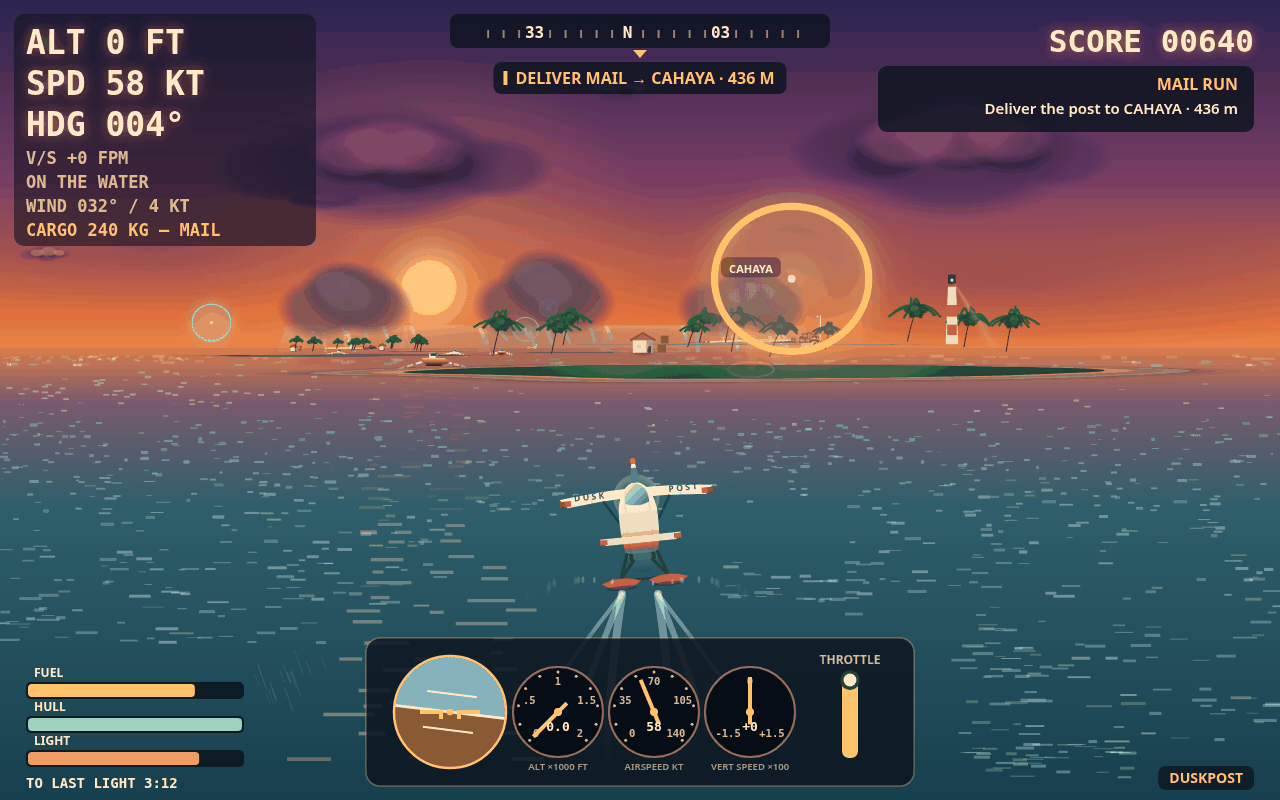
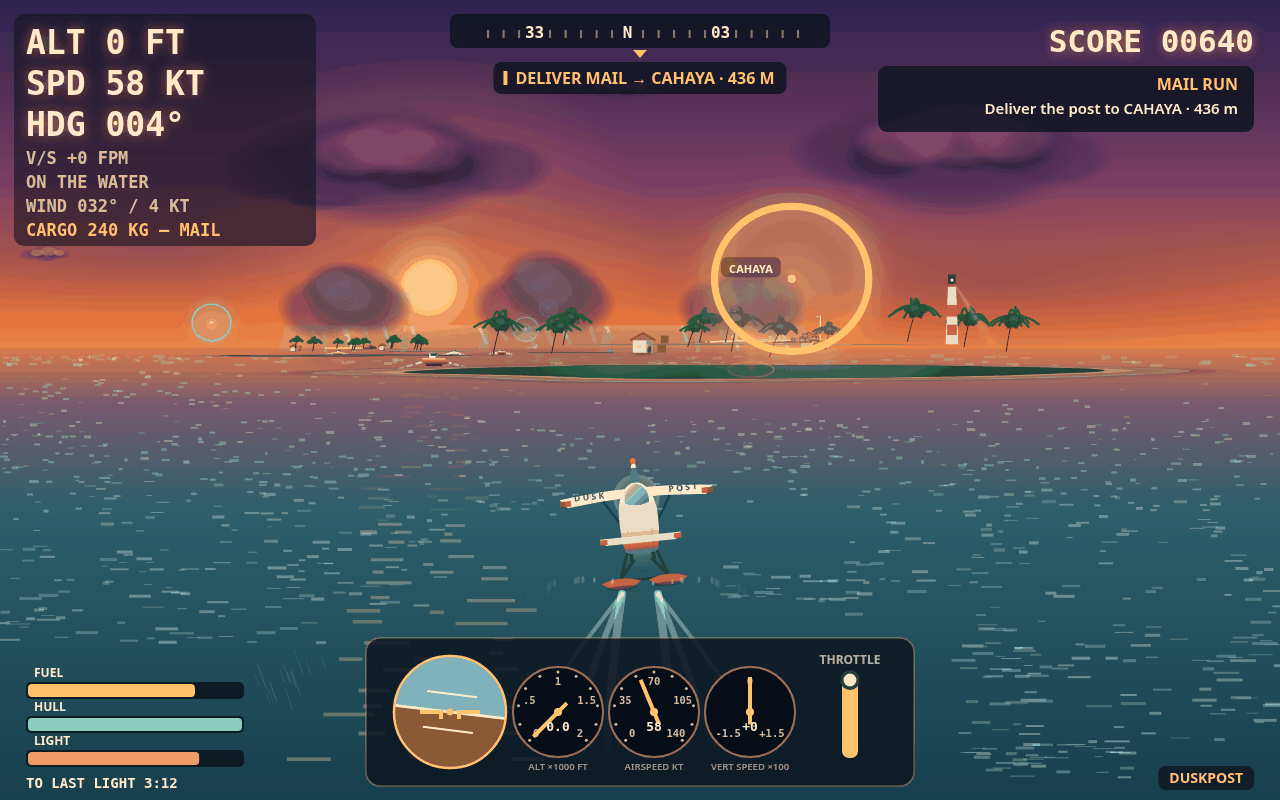
V36: last flat sea pocket filled in cover+rescue (PD); approach corner + delivery y700 grass meet guards (AB2/E2-left2 revision); strip-side patch fixed on reading (E2-strip)

diff --git a/game/src/render.js b/game/src/render.js
@@ -1185,6 +1185,38 @@ function drawSea(ctx, v, plane, light) {
     ctx.globalAlpha = clamp(0.6 - p.fwd / 2600, 0.12, 0.30) * (0.7 + hash(11) * 0.6);
     ctx.fillRect(p.x - len / 2, p.y, len, ht);
   }
+  // V36: a PD pass — a flat pocket in the cover's y640 x1200 half
+  // (1200–1280, 640–680): sd 5.5 with ONE dash in the 3× crop (V36
+  // audit problem 4). It sits in the gap between the PB pass (ends
+  // px 1040) and the frame edge, below the deep-2 pass's start (py
+  // 658). Same shape as PB, px 1200–1280, py horizon+292…+332, gate
+  // fwd 20–40, count 12, salt 89.11. Hash-proven before rendering
+  // (sea-probe36.mjs): 12/12 kept at cover AND rescue, 12/12 in the
+  // pocket, 0/12 at approach, delivery and storm, 0 on any
+  // panel/pill. Map diff guard as in the PA pass above.
+  ctx.fillStyle = 'rgba(220,245,245,1)';
+  for (let i = 0; i < 12; i += 1) {
+    const hash = (salt) => {
+      const h = Math.sin(i * 12.9898 + salt * 7.77 + 89.11) * 43758.5453;
+      return h - Math.floor(h);
+    };
+    const px = 1200 + hash(1) * 80;
+    const py = v.horizon + 292 + hash(2) * 40;
+    if (py > 616 && py < 794 && px > 326 && px < 954) continue; // instrument panel
+    if (py > 641 && py < 796 && px > 16 && px < 249) continue; // fuel/hull gauges
+    const s = (py - v.horizon) / v.camY;
+    const fwd = v.focal / s;
+    if (fwd < 20 || fwd > 40) continue;
+    const right = (px - VIEW_W / 2) / s;
+    const wx = v.camX + fwd * v.sinH + right * v.cosH;
+    const wz = v.camZ + fwd * v.cosH - right * v.sinH;
+    const p = project(v, wx, 0, wz);
+    if (!p) continue;
+    const len = clamp(p.s * 0.35, 4, 12) * (0.6 + hash(9) * 1.6);
+    const ht = 1 + Math.floor(hash(10) * 3);
+    ctx.globalAlpha = clamp(0.6 - p.fwd / 2600, 0.12, 0.30) * (0.7 + hash(11) * 0.6);
+    ctx.fillRect(p.x - len / 2, p.y, len, ht);
+  }
   // V35: a PC pass — a thin pocket at (480–560, 470–510): sd 6.0
   // with ~3 dashes (V35 audit problem 3). A density pocket, not a
   // gap: the near pass (fwd 60–200) covers py 470–510 but spreads
@@ -1233,14 +1265,53 @@ function drawSea(ctx, v, plane, light) {
   // not shape, so the count lifts 40 → 60 with the window, gate
   // and shape unchanged; re-proven sea-probe35d.mjs, 60/60 kept at
   // approach only, 57 in the corner).
+  // V36 LIFT (the V35 partial continued: only 1 of 4 corner cells
+  // meets the ≥8 guard — y640 x1120 7.1, y700 x960 7.98, y700 x1120
+  // 7.56 — the mechanism is density, so the count lifts 60 → 90
+  // with the window, gate and shape unchanged; re-proven
+  // sea-probe36.mjs, 90/90 kept at approach only, 87 in the
+  // corner). The reading at 2× is already textured water; this
+  // lift chases the metric guard.
   ctx.fillStyle = 'rgba(220,245,245,1)';
-  for (let i = 0; i < 60; i += 1) {
+  for (let i = 0; i < 90; i += 1) {
     const hash = (salt) => {
       const h = Math.sin(i * 12.9898 + salt * 7.77 + 89.7) * 43758.5453;
       return h - Math.floor(h);
     };
     const px = 960 + hash(1) * 320;
     const py = v.horizon + 278 + hash(2) * 142;
+    if (py > 616 && py < 794 && px > 326 && px < 954) continue; // instrument panel
+    if (py > 641 && py < 796 && px > 16 && px < 249) continue; // fuel/hull gauges
+    const s = (py - v.horizon) / v.camY;
+    const fwd = v.focal / s;
+    if (fwd < 100 || fwd > 200) continue;
+    const right = (px - VIEW_W / 2) / s;
+    const wx = v.camX + fwd * v.sinH + right * v.cosH;
+    const wz = v.camZ + fwd * v.cosH - right * v.sinH;
+    const p = project(v, wx, 0, wz);
+    if (!p) continue;
+    const len = clamp(p.s * 0.35, 4, 12) * (0.6 + hash(9) * 1.6);
+    const ht = 1 + Math.floor(hash(10) * 3);
+    ctx.globalAlpha = clamp(0.6 - p.fwd / 2600, 0.12, 0.30) * (0.7 + hash(11) * 0.6);
+    ctx.fillRect(p.x - len / 2, p.y, len, ht);
+  }
+  // V36 REVISION (first render: 3 of 4 corner cells meet the ≥8 guard
+  // — y640 x1120 8.50, y700 x960 9.32 — but y700 x1120 is short at
+  // 7.68 by 0.32; the count lever is spent on the whole corner, so
+  // the revision targets that cell alone): an AB2 pass, px 1120–
+  // 1280, py horizon+348…+420, gate fwd 100–200, count 20, salt
+  // 89.71, same dash shape as AB. Hash-proven (sea-probe36b.mjs):
+  // 20/20 kept at approach ONLY, 11 in the target cell, 20 in the
+  // corner, 0/20 elsewhere, 0 on panel (6 in the pill zone at
+  // approach — the pill draws after, on top, so they are hidden).
+  ctx.fillStyle = 'rgba(220,245,245,1)';
+  for (let i = 0; i < 20; i += 1) {
+    const hash = (salt) => {
+      const h = Math.sin(i * 12.9898 + salt * 7.77 + 89.71) * 43758.5453;
+      return h - Math.floor(h);
+    };
+    const px = 1120 + hash(1) * 160;
+    const py = v.horizon + 348 + hash(2) * 72;
     if (py > 616 && py < 794 && px > 326 && px < 954) continue; // instrument panel
     if (py > 641 && py < 796 && px > 16 && px < 249) continue; // fuel/hull gauges
     const s = (py - v.horizon) / v.camY;
@@ -3241,7 +3312,14 @@ function drawIsland(ctx, v, isl, t, light, world) {
       // re-proven sea-probe35d.mjs, 140/140 kept at delivery, on
       // land 140/140, 58 in the left half and 52 in the right half,
       // 62 pale; 0 on land elsewhere).
-      for (let i = 0; i < 140; i += 1) {
+      // V36 LIFT (the V35 partial continued: the y700 cell reads sd
+      // 7.27 vs the ≥8 guard, short 0.73 — the mechanism is density,
+      // so the count lifts 140 → 200 with the rect, shape and tones
+      // unchanged; re-proven sea-probe36.mjs, 200/200 kept at
+      // delivery, on land 200/200, 162 in the cell, 87 pale; 0 on
+      // land elsewhere). The reading at 2× is already grass stubble;
+      // this lift chases the metric guard.
+      for (let i = 0; i < 200; i += 1) {
         const sx = 1120 + sh(i, 97) * 160;
         const sy = 700 + sh(i, 98) * 50;
         let swx = 0, swz = 0, shgt = 0;
@@ -3262,6 +3340,115 @@ function drawIsland(ctx, v, isl, t, light, world) {
         ctx.fillStyle = sh(i, 99) > 0.62
           ? hexA(tone('#a8b878', '#4a5a3a'), speckA * 1.17)
           : hexA(toneLand('#1f4030', '#0c1c14'), speckA * 1.3);
+        ctx.beginPath();
+        ctx.ellipse(sp.x, sp.y, sr * sasp, sr * 0.75, srot, 0, Math.PI * 2);
+        ctx.fill();
+      }
+      // V36 REVISION (first render: the y700 cell reads sd 7.41, short
+      // 0.59 — the count lever is saturated, 140 → 200 gaining only
+      // +0.14, so the lever is SIZE/ALPHA, not count): an E2-left2
+      // pass, same rect as E2-left (px 1120–1280, py 700–750), count
+      // 80, salts 111–116, radius floor 3.0 → 4.0, pale alpha ×1.17 →
+      // ×1.5, dark ×1.3 → ×1.6, dash shape unchanged. Hash-proven
+      // (sea-probe36b.mjs): 80/80 kept at delivery, on land 80/80,
+      // 68 in the cell, 30 pale; 0 on land elsewhere. The 2× crop is
+      // the guard: if the bigger dashes read as coins or scratch,
+      // this pass reverts.
+      for (let i = 0; i < 80; i += 1) {
+        const sx = 1120 + sh(i, 111) * 160;
+        const sy = 700 + sh(i, 112) * 50;
+        let swx = 0, swz = 0, shgt = 0;
+        for (let it = 0; it < 3; it += 1) {
+          const ss = (sy - v.horizon) / (v.camY - shgt);
+          if (ss <= 0) break;
+          const sfwd = v.focal / ss;
+          const sright = (sx - VIEW_W / 2) / ss;
+          swx = v.camX + sfwd * v.sinH + sright * v.cosH;
+          swz = v.camZ + sfwd * v.cosH - sright * v.sinH;
+          shgt = world.heightAt(swx, swz);
+        }
+        const sp = project(v, swx, shgt, swz);
+        if (!sp || sp.x < 1120 || sp.x > 1280 || sp.y < 700 || sp.y > 750) continue;
+        const sr = clamp(sp.s * 0.75, 4.0, 5.5) * (0.7 + sh(i, 114) * 0.6);
+        const srot = (sh(i, 115) - 0.5) * 1.05;
+        const sasp = 1.5 + sh(i, 116) * 1.5;
+        ctx.fillStyle = sh(i, 113) > 0.62
+          ? hexA(tone('#a8b878', '#4a5a3a'), speckA * 1.5)
+          : hexA(toneLand('#1f4030', '#0c1c14'), speckA * 1.6);
+        ctx.beginPath();
+        ctx.ellipse(sp.x, sp.y, sr * sasp, sr * 0.75, srot, 0, Math.PI * 2);
+        ctx.fill();
+      }
+      // V36: an E2-strip pass for the delivery frame's strip-side
+      // grass flat patch (1000,660,1120,700): sd 2.82 with 7 px
+      // >med+12, one tiny dash in the 3× crop (V36 audit problem 1,
+      // carried from V35). The patch is inside the E2 pass's clip
+      // (sp.x 960–1280) but outside its sampling rect (sx 1120–
+      // 1280), so no pass samples it — and the y640 cell's sd is
+      // inflated by the runway edge running through it. Same
+      // fixed-point height inversion, island clip, radius floor 3.0,
+      // tones and dash shape as the E2 revision, rect px 1000–1120,
+      // py 660–710, count 60, salts 104–109. Hash-proven
+      // (sea-probe36.mjs): 60/60 kept at delivery, on land 60/60,
+      // 47 in the patch, 21 pale; 0 on land at approach, rescue,
+      // map, cover and storm. The strip and the DUSKPOST pill draw
+      // after this, on top, so no speck ever dots the runway or the
+      // pill.
+      for (let i = 0; i < 60; i += 1) {
+        const sx = 1000 + sh(i, 104) * 120;
+        const sy = 660 + sh(i, 105) * 50;
+        let swx = 0, swz = 0, shgt = 0;
+        for (let it = 0; it < 3; it += 1) {
+          const ss = (sy - v.horizon) / (v.camY - shgt);
+          if (ss <= 0) break;
+          const sfwd = v.focal / ss;
+          const sright = (sx - VIEW_W / 2) / ss;
+          swx = v.camX + sfwd * v.sinH + sright * v.cosH;
+          swz = v.camZ + sfwd * v.cosH - sright * v.sinH;
+          shgt = world.heightAt(swx, swz);
+        }
+        const sp = project(v, swx, shgt, swz);
+        if (!sp || sp.x < 1000 || sp.x > 1120 || sp.y < 660 || sp.y > 710) continue;
+        const sr = clamp(sp.s * 0.75, 3.0, 4.5) * (0.7 + sh(i, 107) * 0.6);
+        const srot = (sh(i, 108) - 0.5) * 1.05;
+        const sasp = 1.5 + sh(i, 109) * 1.5;
+        ctx.fillStyle = sh(i, 106) > 0.62
+          ? hexA(tone('#a8b878', '#4a5a3a'), speckA * 1.17)
+          : hexA(toneLand('#1f4030', '#0c1c14'), speckA * 1.3);
+        ctx.beginPath();
+        ctx.ellipse(sp.x, sp.y, sr * sasp, sr * 0.75, srot, 0, Math.PI * 2);
+        ctx.fill();
+      }
+      // V36 REVISION (first render: the strip patch reads as grass now
+      // — sd 2.82 → 6.45 — but only 6 px >med+12: the pale dashes
+      // shift <12 at this grazing angle, so the lever is SIZE/ALPHA
+      // again): an E2-strip2 pass, same rect as E2-strip (px 1000–
+      // 1120, py 660–710), count 40, salts 118–123, radius floor 3.0 →
+      // 4.0, pale alpha ×1.17 → ×1.5, dark ×1.3 → ×1.6, dash shape
+      // unchanged. Hash-proven (sea-probe36b.mjs): 40/40 kept at
+      // delivery, on land 40/40, 28 in the patch, 17 pale; 0 on land
+      // elsewhere. Same 2× guard as E2-left2 above.
+      for (let i = 0; i < 40; i += 1) {
+        const sx = 1000 + sh(i, 118) * 120;
+        const sy = 660 + sh(i, 119) * 50;
+        let swx = 0, swz = 0, shgt = 0;
+        for (let it = 0; it < 3; it += 1) {
+          const ss = (sy - v.horizon) / (v.camY - shgt);
+          if (ss <= 0) break;
+          const sfwd = v.focal / ss;
+          const sright = (sx - VIEW_W / 2) / ss;
+          swx = v.camX + sfwd * v.sinH + sright * v.cosH;
+          swz = v.camZ + sfwd * v.cosH - sright * v.sinH;
+          shgt = world.heightAt(swx, swz);
+        }
+        const sp = project(v, swx, shgt, swz);
+        if (!sp || sp.x < 1000 || sp.x > 1120 || sp.y < 660 || sp.y > 710) continue;
+        const sr = clamp(sp.s * 0.75, 4.0, 5.5) * (0.7 + sh(i, 121) * 0.6);
+        const srot = (sh(i, 122) - 0.5) * 1.05;
+        const sasp = 1.5 + sh(i, 123) * 1.5;
+        ctx.fillStyle = sh(i, 120) > 0.62
+          ? hexA(tone('#a8b878', '#4a5a3a'), speckA * 1.5)
+          : hexA(toneLand('#1f4030', '#0c1c14'), speckA * 1.6);
         ctx.beginPath();
         ctx.ellipse(sp.x, sp.y, sr * sasp, sr * 0.75, srot, 0, Math.PI * 2);
         ctx.fill();
